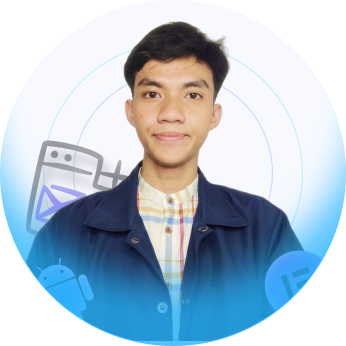
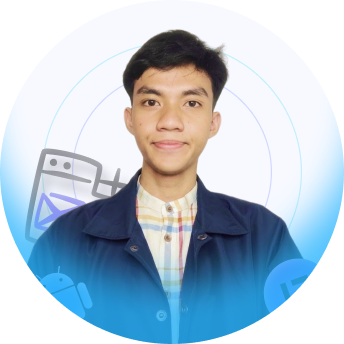
fix: perbarui foto di hero

diff --git a/assets/styles/style.css b/assets/styles/style.css
@@ -333,7 +333,7 @@ nav.scrolled img {
   aspect-ratio: 1/1;
   background-size: cover;
   background-position: center;
-  animation: changePhoto 2s infinite ease-in-out;
+  animation: changePhoto 3.7s infinite ease-in-out;
 }
 
 @keyframes changePhoto {
@@ -343,7 +343,7 @@ nav.scrolled img {
     background-image: url("../image/blue.png");
   }
 
-  50% {
+  40% {
     background-image: url("../image/purple.png");
   }
 }
